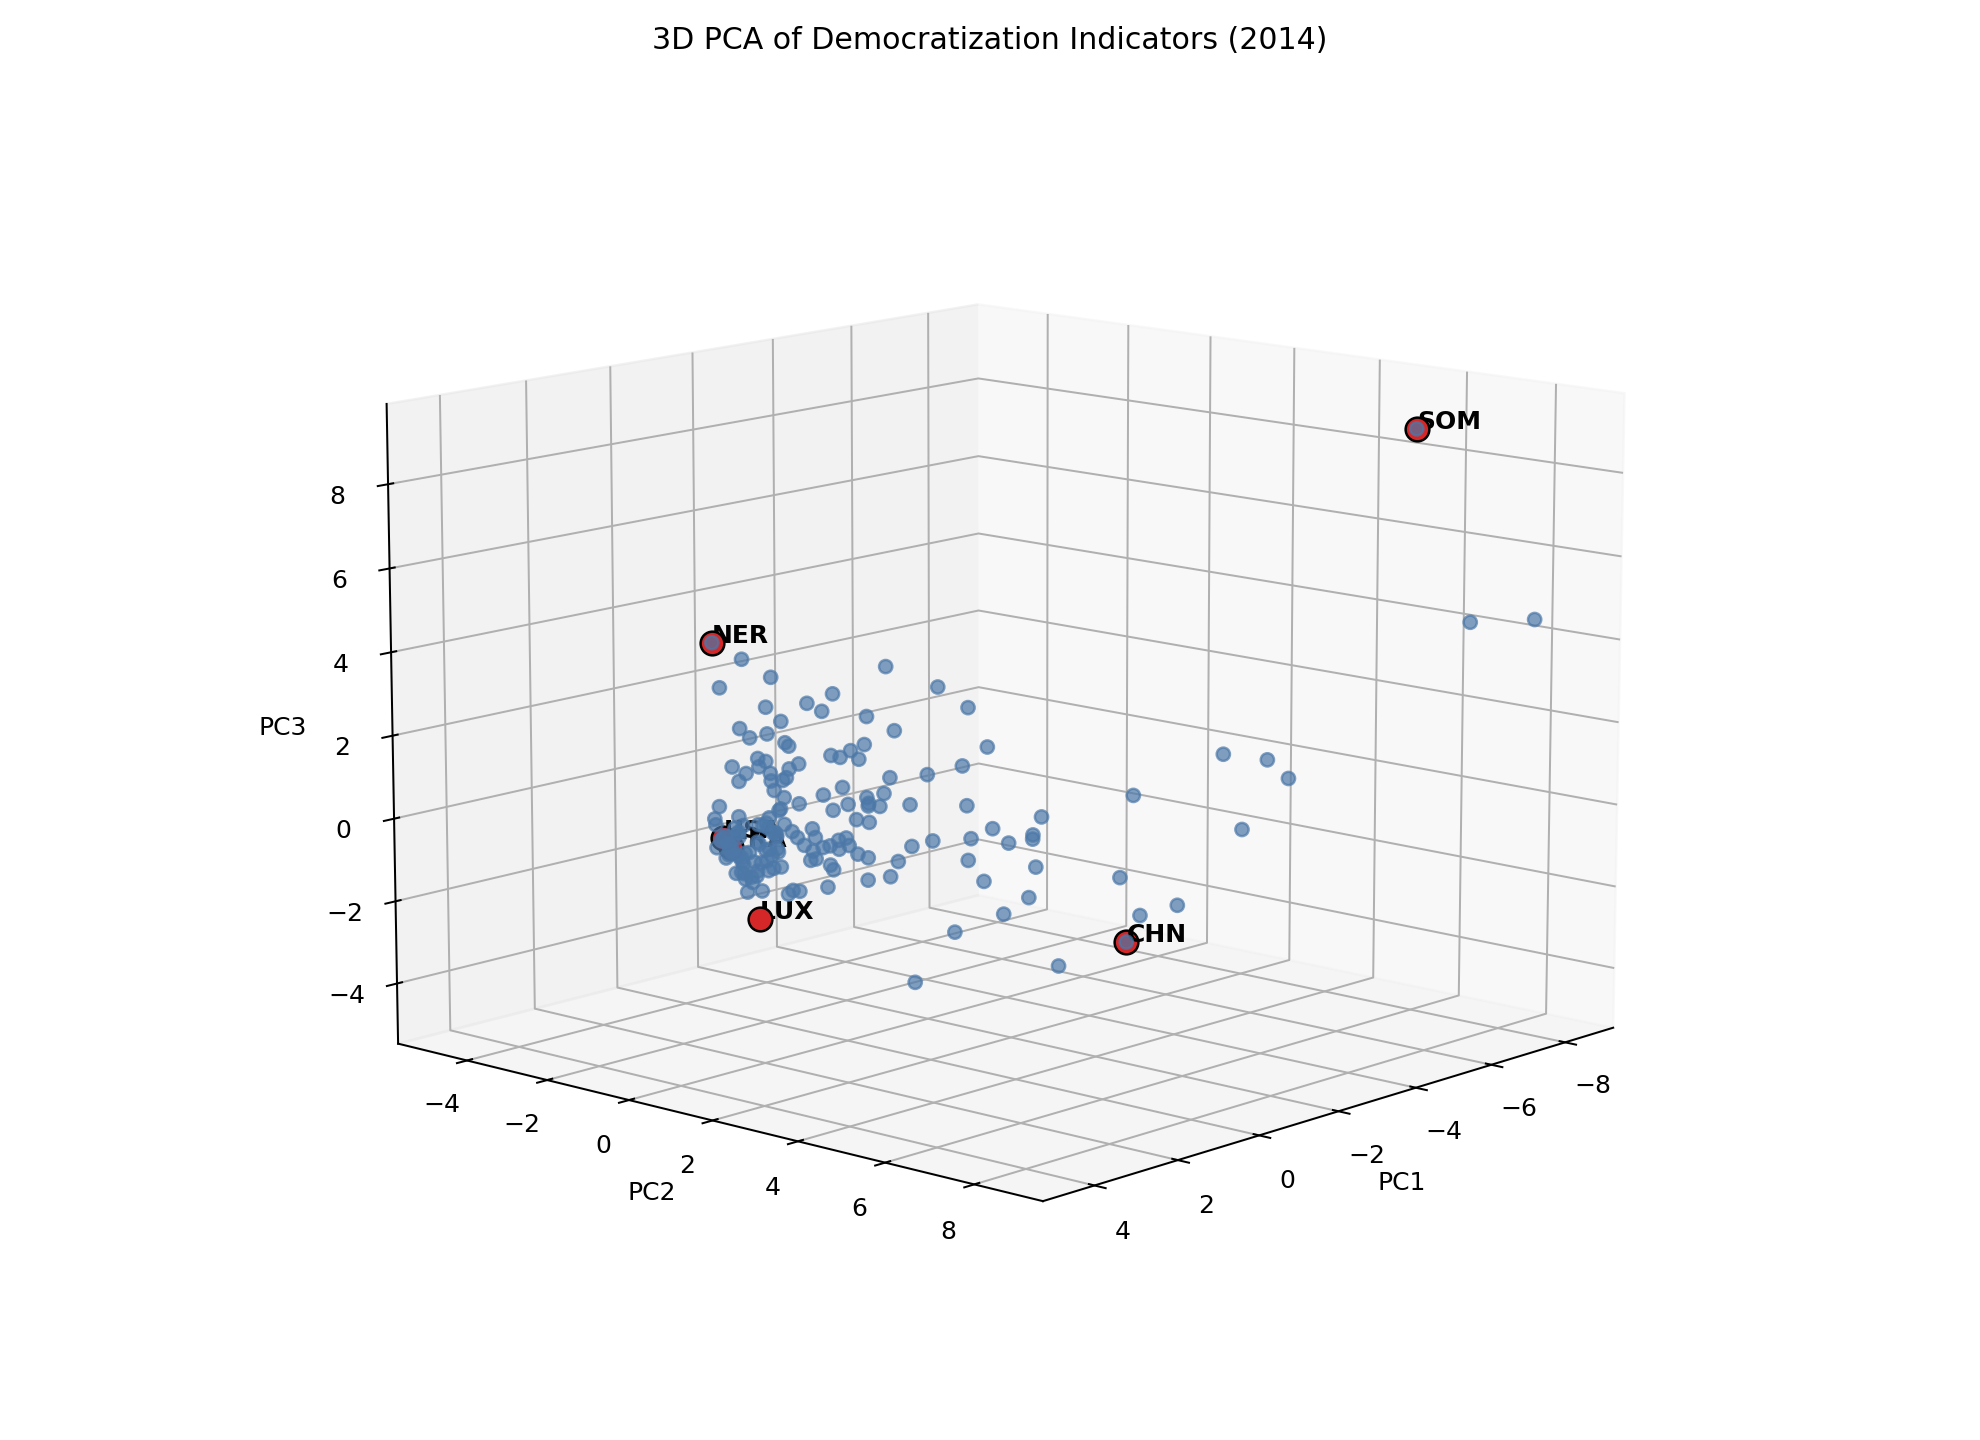
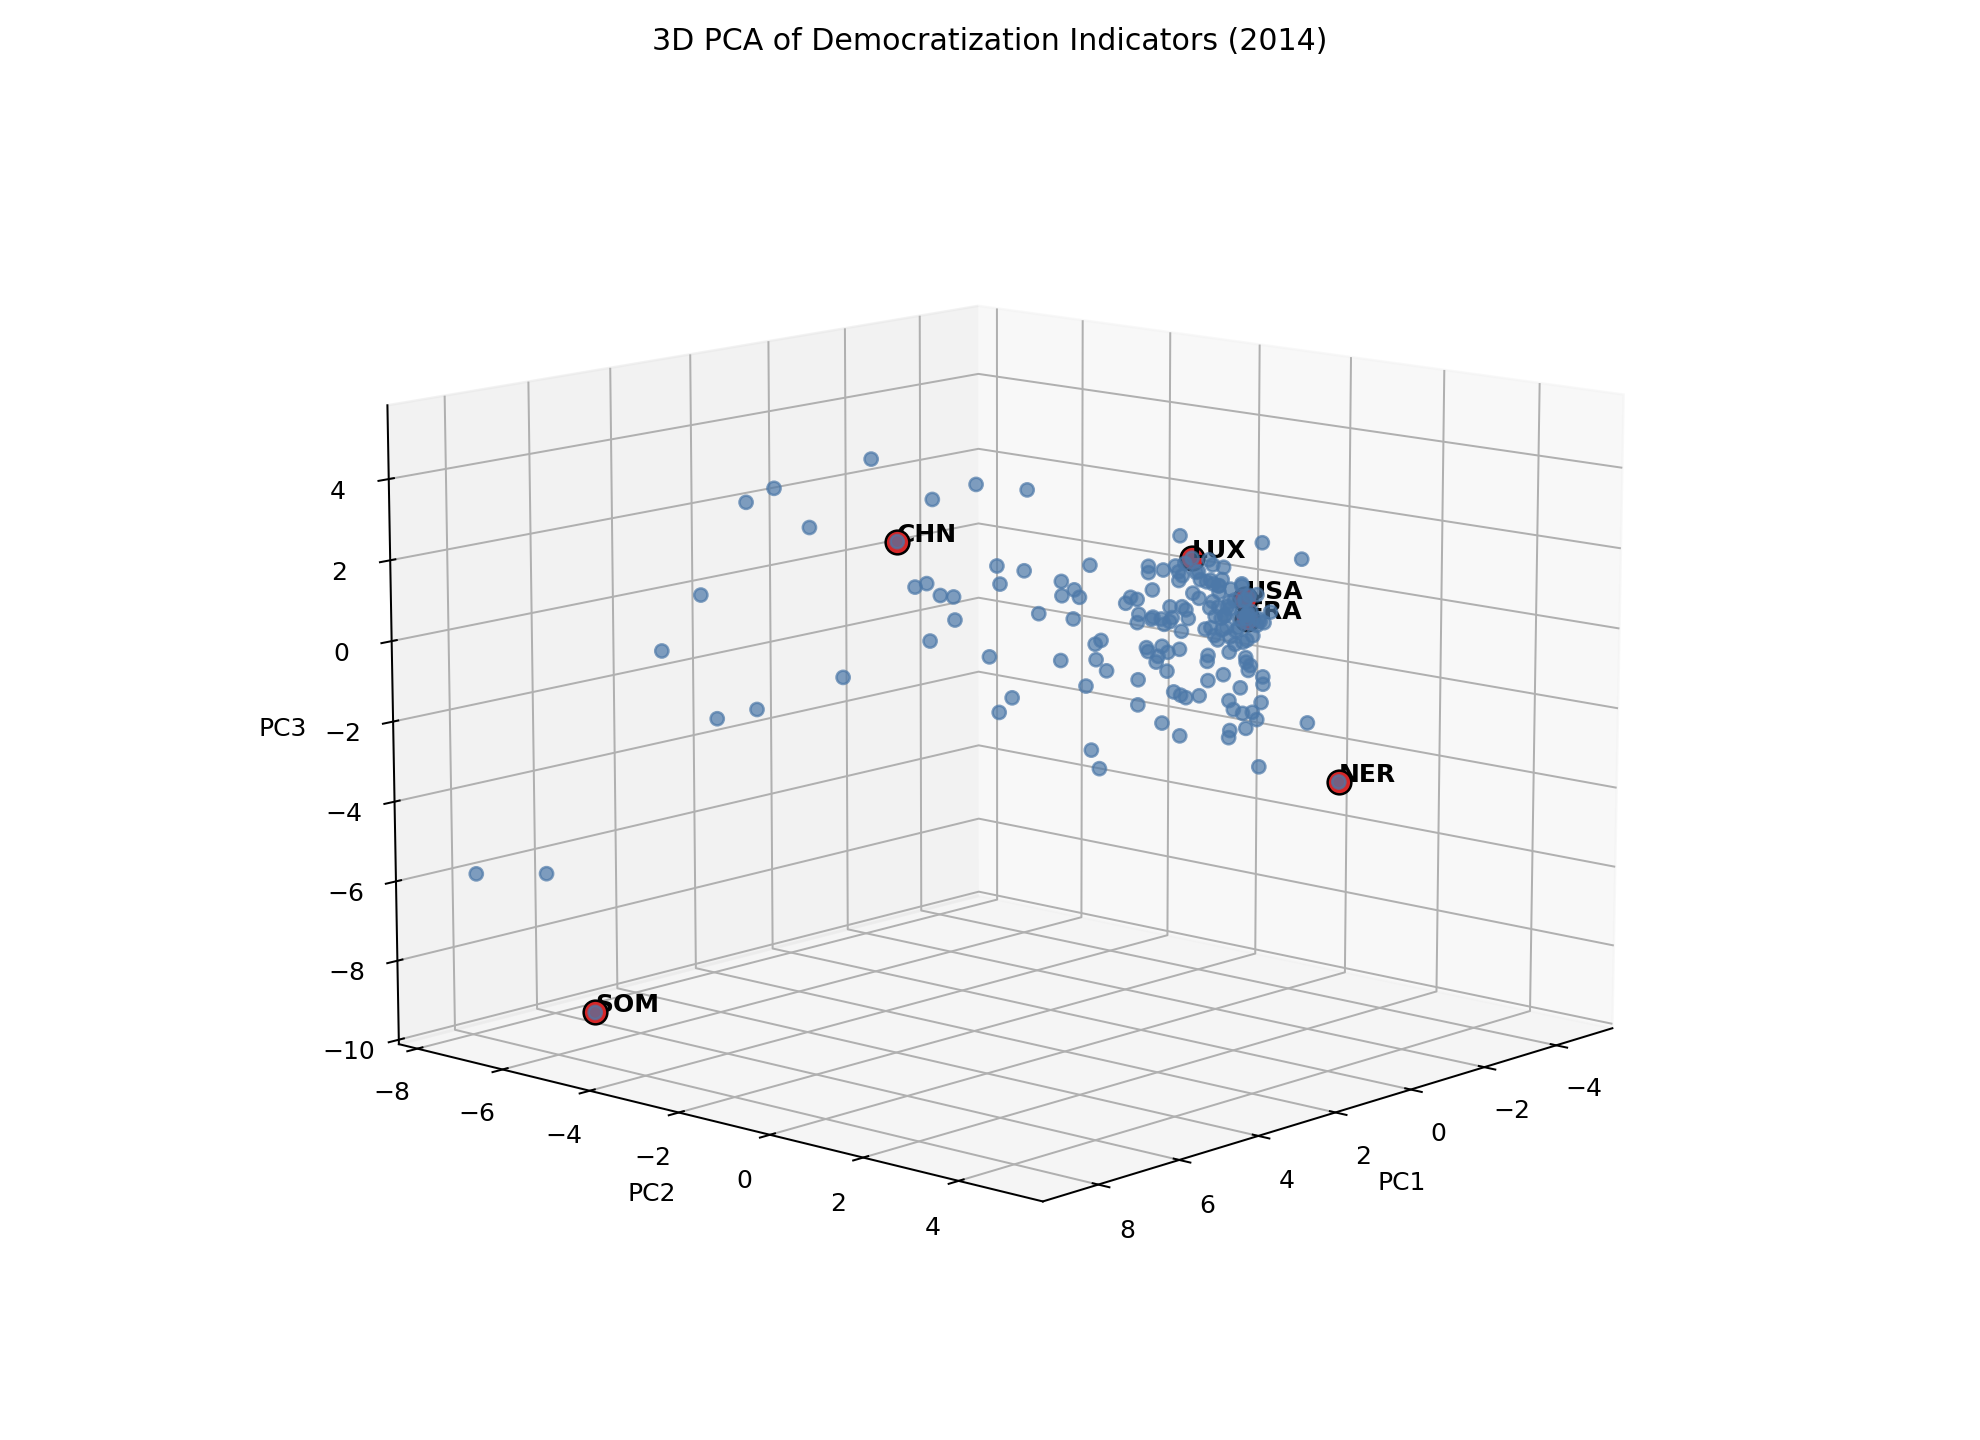
Tighten PCA data cleaning and coverage rules

Changed region(s): [[0.1848, 0.25, 0.801, 0.8438], [0.7702, 0.5312, 0.801, 0.5625]]

diff --git a/src/main.py b/src/main.py
@@ -13,7 +13,8 @@ DATA_PATH = ROOT / "data" / "Global_Dataset.csv"
 OUTPUT_DIR = ROOT / "outputs"
 
 REFERENCE_YEAR = 2014
-MAX_VISUALIZATION_YEAR = 2022
+MAX_VISUALIZATION_YEAR = 2021
+MIN_TRAJECTORY_COVERAGE = 0.50
 HIGHLIGHT_COUNTRIES = ["USA", "CHN", "FRA", "LUX", "SOM", "NER"]
 COUNTRY_COLORS = {
     "USA": "#1f77b4",
@@ -126,6 +127,10 @@ COUNT_VARIABLES = ["journalists_killed_n", "journalists_imprisoned_n"]
 
 def load_dataset(path: Path = DATA_PATH) -> pd.DataFrame:
     df = pd.read_csv(path, low_memory=False)
+    if "in_GW_system" in df.columns:
+        valid_country_codes = df.loc[df["in_GW_system"].eq(True), "Country Code"].dropna().unique()
+        df = df[df["Country Code"].isin(valid_country_codes)].copy()
+
     df = df.rename(columns=RENAME_COLUMNS)
     columns = ["Country Code", "Year", *PCA_VARIABLES]
     df = df.loc[:, columns].copy()
@@ -190,6 +195,7 @@ def compute_historical_scores(
         if column in aligned.columns:
             aligned[column] = aligned[column].fillna(0)
 
+    coverage = aligned[x.columns].notna().mean(axis=1)
     sigma = x.std(axis=0)
     sigma[sigma == 0] = 1
     z_history = (aligned[x.columns] - x.mean(axis=0)) / sigma
@@ -199,6 +205,7 @@ def compute_historical_scores(
     scores["PC1"] *= -1
     scores["country"] = aligned["Country Code"].values
     scores["year"] = aligned["Year"].astype(int).values
+    scores["coverage"] = coverage.values
     return scores.set_index(["country", "year"]).sort_index()
 
 
@@ -229,11 +236,12 @@ def plot_3d_scores(scores: pd.DataFrame, output_path: Path) -> None:
 def plot_3d_trajectories(history: pd.DataFrame, output_path: Path, year: int | None = None) -> None:
     years = history.index.get_level_values("year")
     selected_year = int(year or min(years.max(), MAX_VISUALIZATION_YEAR))
+    reliable_history = history[history["coverage"] >= MIN_TRAJECTORY_COVERAGE]
 
     fig = plt.figure(figsize=(12, 8.5))
     ax = fig.add_subplot(111, projection="3d")
 
-    year_slice = history.xs(selected_year, level="year")
+    year_slice = reliable_history.xs(selected_year, level="year")
     ax.scatter(
         year_slice["PC1"],
         year_slice["PC2"],
@@ -245,10 +253,10 @@ def plot_3d_trajectories(history: pd.DataFrame, output_path: Path, year: int | N
     )
 
     for country in HIGHLIGHT_COUNTRIES:
-        if country not in history.index.get_level_values("country"):
+        if country not in reliable_history.index.get_level_values("country"):
             continue
 
-        trajectory = history.xs(country, level="country").sort_index()
+        trajectory = reliable_history.xs(country, level="country").sort_index()
         trajectory = trajectory.loc[trajectory.index <= selected_year]
         if trajectory.empty:
             continue
@@ -284,7 +292,7 @@ def plot_3d_trajectories(history: pd.DataFrame, output_path: Path, year: int | N
             weight="bold",
         )
 
-    ax.set_title(f"3D PCA Democratization Trajectories (1960-{selected_year})", pad=18)
+    ax.set_title(f"3D PCA Democratization Trajectories (through {selected_year})", pad=18)
     ax.set_xlabel("PC1")
     ax.set_ylabel("PC2")
     ax.set_zlabel("PC3")

diff --git a/README.md b/README.md
@@ -1,6 +1,6 @@
 # Democratization PCA Visualization
 
-3D PCA visualization of democratization trajectories across 200+ countries from 1960-2022.
+3D PCA visualization of democratization trajectories using a country-year dataset spanning 1960-2022.
 
 ![3D PCA trajectories](outputs/pca_3d_trajectories.png)
 
@@ -10,11 +10,14 @@ This project turns a high-dimensional country-year dataset into an interpretable
 
 The visualization fits PCA on a cleaned 2014 country-level matrix, then projects historical country-year observations onto the same PCA basis. The result is a 3D plot where selected countries are shown as colored trajectories through the PCA space, while the broader country sample provides context.
 
+The trajectory plot stops at 2021 because the 2022 rows in the combined dataset have insufficient political-variable coverage for a reliable PCA projection.
+
 ## What The Visualization Shows
 
 - The gray points show all countries available in the final year of the dataset.
 - The colored lines show trajectories for selected countries across time.
 - PC1, PC2, and PC3 summarize the largest independent sources of variation across the selected political, education, and economic indicators.
+- Historical points are plotted only when at least 50% of the retained PCA variables are observed before final mean imputation.
 - The plot is exploratory: it is useful for pattern-finding and comparison, not for claiming a definitive democracy ranking.
 
 ## Data
@@ -31,13 +34,14 @@ The dataset combines political, economic, and education indicators by country-ye
 1. Select political, education, and economic variables relevant to democratization.
 2. Convert selected variables to numeric values.
 3. Impute sparse slow-moving education/economic variables within each country using nearest-year interpolation.
-4. Build a 2014 country-level matrix.
-5. Drop variables and countries with more than 40% missing values.
-6. Fill remaining missing values with column means.
-7. Standardize variables to mean zero and unit variance.
-8. Run PCA manually from the covariance matrix using eigen decomposition.
-9. Plot the first three principal components in 3D.
-10. Project historical observations onto the 2014 PCA basis to show country trajectories over time.
+4. Remove aggregate/non-country rows using the dataset's `in_GW_system` country identifier.
+5. Build a 2014 country-level matrix.
+6. Drop variables and countries with more than 40% missing values.
+7. Fill remaining missing values with column means.
+8. Standardize variables to mean zero and unit variance.
+9. Run PCA manually from the covariance matrix using eigen decomposition.
+10. Plot the first three principal components in 3D.
+11. Project sufficiently covered historical observations onto the 2014 PCA basis to show country trajectories over time.
 
 ## Run Locally
 
@@ -77,7 +81,8 @@ outputs/pca_3d_trajectories.png
 - PCA is exploratory and linear; it should not be interpreted as a definitive democracy ranking.
 - Results are sensitive to variable selection, missing-data handling, and the reference year.
 - Principal-component directions and signs are arbitrary; axis labels should be interpreted with caution.
-- Historical trajectories are projected onto a 2014 PCA basis, which is useful for visual consistency but not a full dynamic model.
+- Historical trajectories are projected onto a 2014 PCA basis, which is useful for visual consistency but is not a full dynamic model.
+- The public visualization stops at 2021 because 2022 political indicators are too sparse in the combined file.
 - The original combined dataset is included, but the full upstream data-collection and merge pipeline is outside the scope of this repo.
 - Some countries have sparse data, which can affect their plotted position.
 
